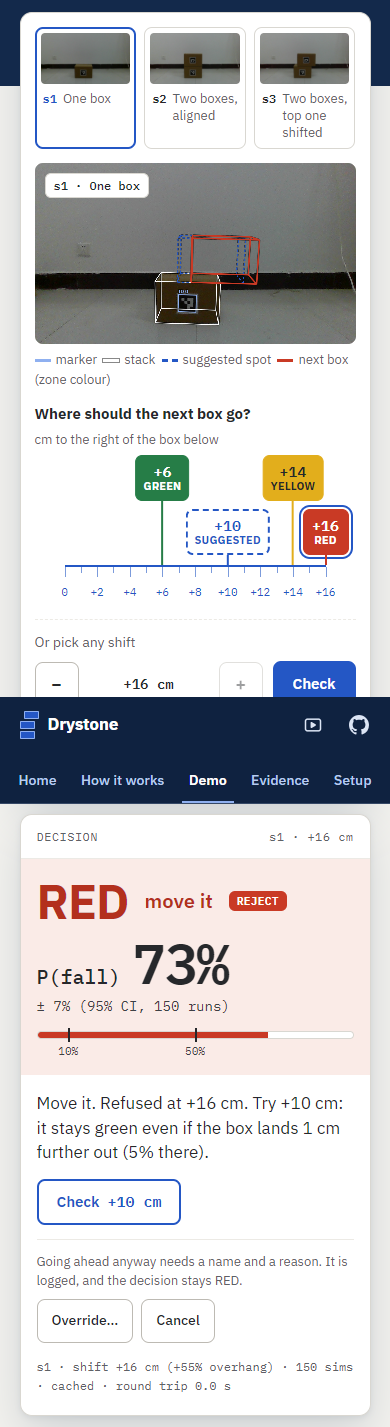
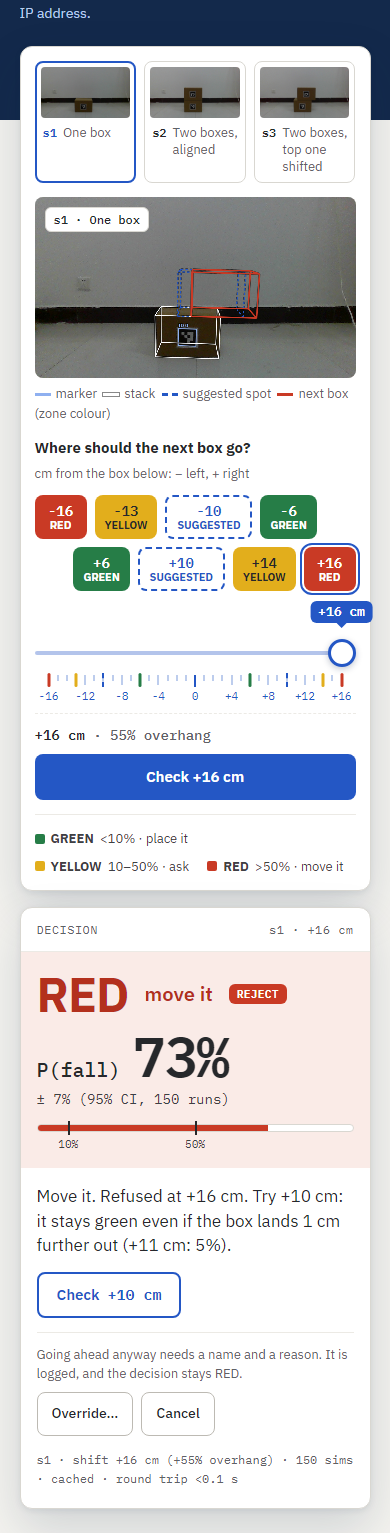
REPORT: new judges' page screenshots (slider, s1 +16 cm RED, suggestion +10 cm), captions updated
Captured with headless Edge from the local server (same page as the live image):
1440 px desktop and 390 px phone; PNGs carry no text metadata.

diff --git a/docs/REPORT.md b/docs/REPORT.md
@@ -457,12 +457,12 @@ From the evaluation (25 trials, `agent.py --aws`) unless noted:
 drawn dashed on the photo](img/web_desktop.png)
 
 *The judges' page on a desktop (1440 px wide). Sample s1, next box at +16 cm: RED, P(fall) 73%, suggestion +10 cm
-(drawn dashed on the photo). This screenshot shows the earlier placement ruler; since 23 Oct the page has a slider
-from −16 to +16 cm with example chips on both sides, and nothing is computed until Check is pressed.*
+(drawn dashed on the photo). The chips are the sample's GREEN, YELLOW and RED examples and suggested spots on both
+sides; the slider picks any shift from −16 to +16 cm, and nothing is computed until Check is pressed.*
 
 <img src="img/web_mobile.png" alt="The judges' page on a phone (390 px): the same RED decision below the placement control" width="320">
 
-*The same request on a phone (390 px wide, earlier ruler version): after a check the page scrolls to the decision.*
+*The same request on a phone (390 px wide): after a check the page scrolls to the decision.*
 
 ## 9. Limitations
 - Markers are required on every box; faded markers in dim light can be missed.
